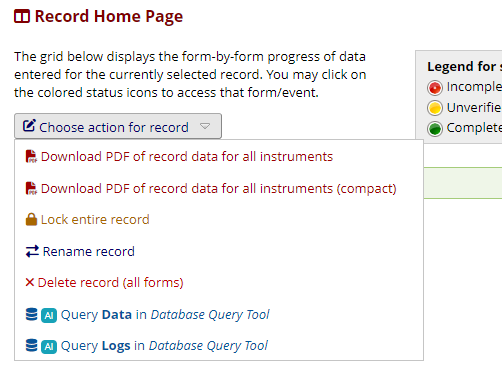
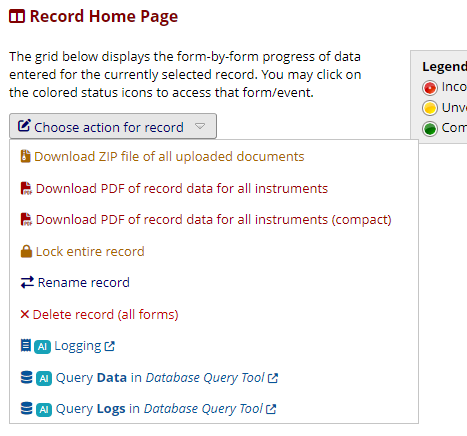
Update screenshot and docs

Changed region(s): [[0.0, 0.1228, 1.0, 0.9821], [0.0, 0.0, 0.3897, 0.0614], [0.8694, 0.9514, 0.8994, 0.9821]]

diff --git a/README.md b/README.md
@@ -29,7 +29,7 @@ Some features are always enabled, while some can be turned on or off using the t
 
 ### **Record data and logs query links**
 
-Adds shortcuts link for to the _Record Actions_ menu on the _Record Home Page_ that open the _Database Query Tool_ in a new browser tab, automatically performing a query for the record in the _redcap_data_ or the appropriate logs table.  
+Adds shortcuts link for to the _Record Actions_ menu on the _Record Home Page_ that open the _Database Query Tool_ in a new browser tab, automatically performing a query for the record in the _redcap_data_ or the appropriate logs table. It also adds a link to the _Logging_ page, preselecting the record. The links open in new tabs.  
 ![Query links](images/QueryLinks.png)
 
 ### **Hidden Field Revealer**
@@ -39,7 +39,7 @@ On data entry forms and surveys, if there are hidden fields, a link is provided 
 
 ### **Data Entry / Survey Annotations**
 
- When enabled, field annotations will be displayed on data entry forms and survey pages in the respective field's label. In case the field is embedded, the annotations will be appended to the embedding container.  
+ When enabled, field annotations will be displayed on data entry forms and survey pages in the respective field's label. In case the field is embedded, the annotations will be appended to the embedding container. This works with **Shazam**, too.  
  ![Field annotations](images/FieldAnnotations.png)  
  Click field names to copy them to the clipboard (wrapped in square brackets when the `CTRL` is pressed while clicking).
 
